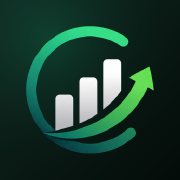
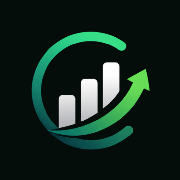
Faz o icone se fundir a tela de abertura (v34)
Na abertura do app o icone aparecia como um quadrado destacado no
meio da tela, com uma moldura visivel em volta.

Decodificando os PNGs pixel a pixel: o fundo do icone era um degrade
que ia de brilho 0,17 num canto a 0,06 no outro, enquanto a tela de
abertura e o background_color chapado #050d0a, de brilho 0,06. Num
dos cantos o icone era quase 3x mais claro que a tela - por isso a
silhueta quadrada saltava aos olhos.

Os cinco icones foram recompostos a partir do logo-mark.png, que e o
logo puro com transparencia, agora sobre fundo chapado #050d0a -
exatamente o background_color. Os quatro cantos passam a ler
(5,13,10) e a borda inteira fica uniforme em 0,04: nao ha mais
nenhuma aresta entre o icone e a tela.

De quebra, os maskable ganharam a folga que lhes faltava. Eles eram
quase iguais aos comuns; agora o logo ocupa 54% do lado, que cabe
inteiro no circulo de 80% que o Android recorta (um quadrado so cabe
nesse circulo ate 56%).

Redimensionamento por interpolacao bilinear, para nao serrilhar.

Nota: se ainda sobrar uma moldura cinza clara depois de reinstalar,
ela e desenhada pelo proprio Android em volta do icone da tela de
abertura, e nao ha o que fazer pelo manifesto - so gerando um APK
com icone adaptativo de camadas separadas.

diff --git a/index.html b/index.html
@@ -138,7 +138,7 @@
           <p class="form-note">
             Conta local no seu navegador.
             <button id="importAuthBtn" class="link" type="button">Restaurar backup</button>
-            <span class="app-version">v33</span>
+            <span class="app-version">v34</span>
           </p>
         </form>
       </section>
@@ -565,7 +565,7 @@
                 <p class="eyebrow">Conta</p>
                 <h2 class="display-sm">Dados de acesso</h2>
               </div>
-              <span class="app-version">Poupaê v33</span>
+              <span class="app-version">Poupaê v34</span>
             </div>
             <form id="accountForm" class="account glass">
               <label class="field">

diff --git a/sw.js b/sw.js
@@ -3,7 +3,7 @@
 
 /* Ao mudar a versão, atualize também os dois selos .app-version
    do index.html — são eles que revelam qual versão o aparelho roda. */
-const VERSION = "poupae-v33";
+const VERSION = "poupae-v34";
 const SHELL_CACHE = `${VERSION}-shell`;
 const RUNTIME_CACHE = `${VERSION}-runtime`;
 
